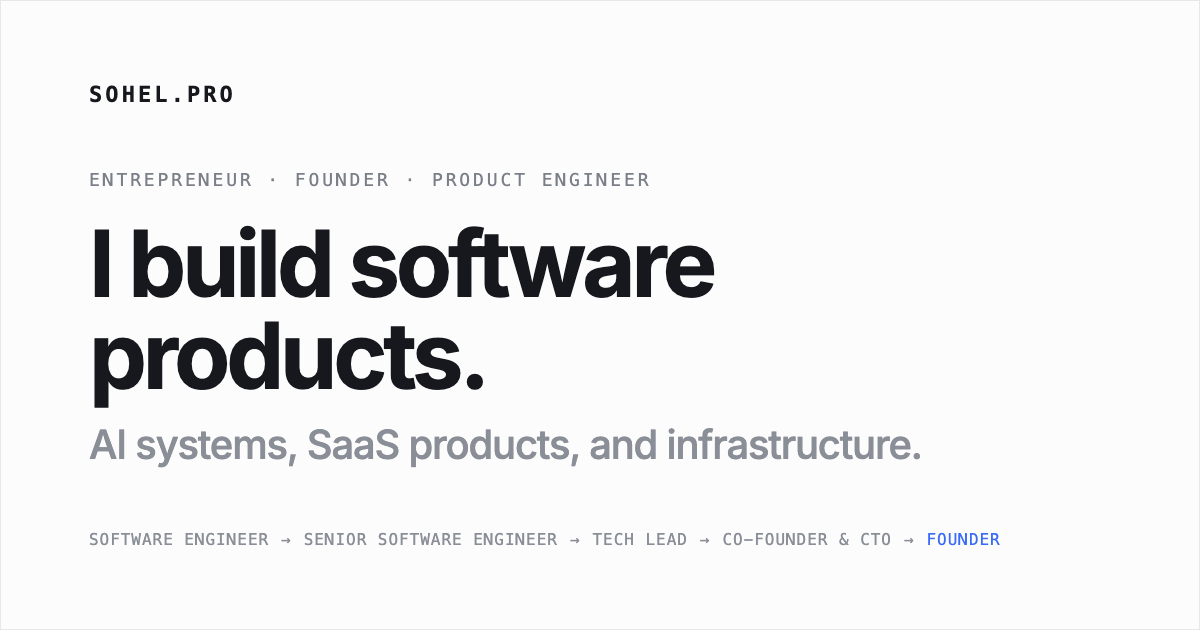
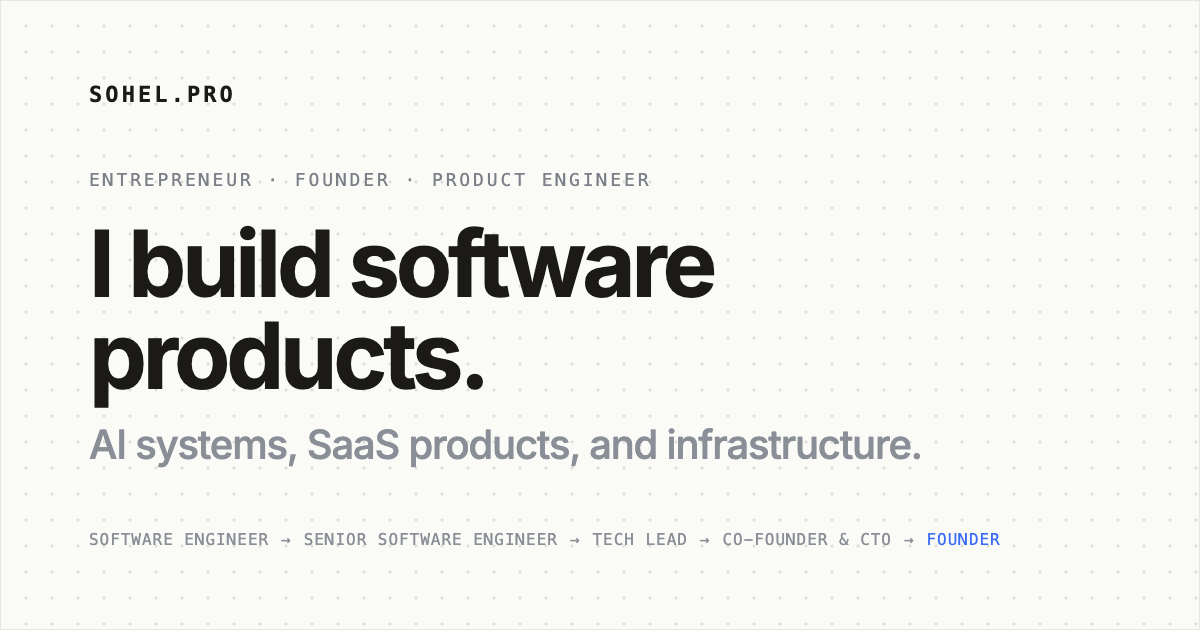
feat: warm paper palette and hero dot grid
- Shift neutrals to a warm paper tone (light) and warm charcoal (dark);
  cards stay white so they lift off the page; brand blue unchanged
- Add a faint dot grid behind the hero, masked to fade at the edges, with
  per-theme dot colour
- Regenerate the share image on warm paper with the same dot pattern

diff --git a/src/routes/index.tsx b/src/routes/index.tsx
@@ -104,104 +104,110 @@ function Home() {
 
 function Hero() {
   return (
-    <Container className="pt-20 pb-16 sm:pt-32 sm:pb-24">
-      <div className="flex items-center gap-3">
-        <img
-          src={site.avatarSmall}
-          alt=""
-          width={40}
-          height={40}
-          fetchPriority="high"
-          className="size-10 rounded-full border bg-muted object-cover"
-        />
-        <div className="flex min-w-0 flex-col gap-1">
-          <p className="text-sm leading-none font-medium">{site.name}</p>
-          <Eyebrow className="leading-[1.5]">{hero.eyebrow}</Eyebrow>
+    <div className="relative isolate">
+      <div
+        aria-hidden
+        className="dot-grid pointer-events-none absolute inset-0 -z-10"
+      />
+      <Container className="pt-20 pb-16 sm:pt-32 sm:pb-24">
+        <div className="flex items-center gap-3">
+          <img
+            src={site.avatarSmall}
+            alt=""
+            width={40}
+            height={40}
+            fetchPriority="high"
+            className="size-10 rounded-full border bg-muted object-cover"
+          />
+          <div className="flex min-w-0 flex-col gap-1">
+            <p className="text-sm leading-none font-medium">{site.name}</p>
+            <Eyebrow className="leading-[1.5]">{hero.eyebrow}</Eyebrow>
+          </div>
         </div>
-      </div>
-      <h1 className="mt-8 max-w-3xl text-[2.6rem] leading-[1.05] font-semibold tracking-[-0.045em] text-balance sm:text-6xl md:text-7xl">
-        {hero.headline}
-      </h1>
-      <p className="mt-4 max-w-3xl text-2xl leading-tight font-medium tracking-[-0.03em] text-balance text-subtle-foreground sm:text-3xl md:text-4xl">
-        {hero.secondary}
-      </p>
-      <p className="mt-8 max-w-xl text-[17px] leading-8 text-pretty text-muted-foreground">
-        {hero.description}
-      </p>
-      <p className="mt-4 text-[15px] text-muted-foreground">
-        Co-founder & CTO at{" "}
-        <ExternalLink
-          href="https://www.tenbyte.io/"
-          className="font-medium text-foreground"
-        >
-          Tenbyte
-        </ExternalLink>
-      </p>
+        <h1 className="mt-8 max-w-3xl text-[2.6rem] leading-[1.05] font-semibold tracking-[-0.045em] text-balance sm:text-6xl md:text-7xl">
+          {hero.headline}
+        </h1>
+        <p className="mt-4 max-w-3xl text-2xl leading-tight font-medium tracking-[-0.03em] text-balance text-subtle-foreground sm:text-3xl md:text-4xl">
+          {hero.secondary}
+        </p>
+        <p className="mt-8 max-w-xl text-[17px] leading-8 text-pretty text-muted-foreground">
+          {hero.description}
+        </p>
+        <p className="mt-4 text-[15px] text-muted-foreground">
+          Co-founder & CTO at{" "}
+          <ExternalLink
+            href="https://www.tenbyte.io/"
+            className="font-medium text-foreground"
+          >
+            Tenbyte
+          </ExternalLink>
+        </p>
 
-      <div className="mt-10 flex flex-wrap items-center gap-3">
-        <Link
-          to="/products"
-          className="inline-flex h-10 items-center gap-2 rounded-lg bg-foreground px-4 text-sm font-medium text-background transition-colors duration-200 hover:bg-foreground/85"
-        >
-          View products
-          <Icon icon={ArrowRight01Icon} size={16} />
-        </Link>
-        <Link
-          to="/experience"
-          className="inline-flex h-10 items-center rounded-lg border bg-card px-4 text-sm font-medium transition-colors duration-200 hover:border-border-strong hover:bg-muted"
-        >
-          My experience
-        </Link>
-        <div className="ml-1 flex items-center gap-1">
-          <a
-            href={site.social.github.url}
-            target="_blank"
-            rel="noopener noreferrer"
-            aria-label="GitHub (opens in a new tab)"
-            className="inline-flex size-10 items-center justify-center rounded-lg text-muted-foreground transition-colors duration-200 hover:bg-muted hover:text-foreground"
+        <div className="mt-10 flex flex-wrap items-center gap-3">
+          <Link
+            to="/products"
+            className="inline-flex h-10 items-center gap-2 rounded-lg bg-foreground px-4 text-sm font-medium text-background transition-colors duration-200 hover:bg-foreground/85"
           >
-            <Icon icon={Github01Icon} size={18} />
-          </a>
-          <a
-            href={site.social.x.url}
-            target="_blank"
-            rel="noopener noreferrer"
-            aria-label="X (opens in a new tab)"
-            className="inline-flex size-10 items-center justify-center rounded-lg text-muted-foreground transition-colors duration-200 hover:bg-muted hover:text-foreground"
+            View products
+            <Icon icon={ArrowRight01Icon} size={16} />
+          </Link>
+          <Link
+            to="/experience"
+            className="inline-flex h-10 items-center rounded-lg border bg-card px-4 text-sm font-medium transition-colors duration-200 hover:border-border-strong hover:bg-muted"
           >
-            <Icon icon={NewTwitterIcon} size={17} />
-          </a>
-          <a
-            href={`mailto:${site.email}`}
-            aria-label={`Email ${site.email}`}
-            className="inline-flex size-10 items-center justify-center rounded-lg text-muted-foreground transition-colors duration-200 hover:bg-muted hover:text-foreground"
-          >
-            <Icon icon={Mail01Icon} size={18} />
-          </a>
+            My experience
+          </Link>
+          <div className="ml-1 flex items-center gap-1">
+            <a
+              href={site.social.github.url}
+              target="_blank"
+              rel="noopener noreferrer"
+              aria-label="GitHub (opens in a new tab)"
+              className="inline-flex size-10 items-center justify-center rounded-lg text-muted-foreground transition-colors duration-200 hover:bg-muted hover:text-foreground"
+            >
+              <Icon icon={Github01Icon} size={18} />
+            </a>
+            <a
+              href={site.social.x.url}
+              target="_blank"
+              rel="noopener noreferrer"
+              aria-label="X (opens in a new tab)"
+              className="inline-flex size-10 items-center justify-center rounded-lg text-muted-foreground transition-colors duration-200 hover:bg-muted hover:text-foreground"
+            >
+              <Icon icon={NewTwitterIcon} size={17} />
+            </a>
+            <a
+              href={`mailto:${site.email}`}
+              aria-label={`Email ${site.email}`}
+              className="inline-flex size-10 items-center justify-center rounded-lg text-muted-foreground transition-colors duration-200 hover:bg-muted hover:text-foreground"
+            >
+              <Icon icon={Mail01Icon} size={18} />
+            </a>
+          </div>
         </div>
-      </div>
 
-      <ol
-        aria-label="Career progression"
-        className="mt-16 flex flex-wrap items-center gap-x-2 gap-y-2 font-mono text-[11px] tracking-[0.08em] text-subtle-foreground uppercase sm:mt-20"
-      >
-        {careerTrack.map((step, i) => {
-          const last = i === careerTrack.length - 1
-          return (
-            <li key={step} className="flex items-center gap-2">
-              <span className={cn(last && "text-brand")}>{step}</span>
-              {!last && (
-                <Icon
-                  icon={ArrowRight01Icon}
-                  size={12}
-                  className="text-border-strong"
-                />
-              )}
-            </li>
-          )
-        })}
-      </ol>
-    </Container>
+        <ol
+          aria-label="Career progression"
+          className="mt-16 flex flex-wrap items-center gap-x-2 gap-y-2 font-mono text-[11px] tracking-[0.08em] text-subtle-foreground uppercase sm:mt-20"
+        >
+          {careerTrack.map((step, i) => {
+            const last = i === careerTrack.length - 1
+            return (
+              <li key={step} className="flex items-center gap-2">
+                <span className={cn(last && "text-brand")}>{step}</span>
+                {!last && (
+                  <Icon
+                    icon={ArrowRight01Icon}
+                    size={12}
+                    className="text-border-strong"
+                  />
+                )}
+              </li>
+            )
+          })}
+        </ol>
+      </Container>
+    </div>
   )
 }
 

diff --git a/src/styles.css b/src/styles.css
@@ -46,54 +46,56 @@
 
 :root {
   color-scheme: light;
-  /* Surfaces: page < card. Neutrals carry a faint cool tint toward the brand
-     blue so the greys feel related to the accent. */
-  --background: oklch(0.99 0.002 260);
-  --foreground: oklch(0.19 0.008 262);
+  /* Warm paper: neutrals lean slightly yellow so the page reads like paper
+     rather than a screen. Cards stay pure white to lift off it. */
+  --background: oklch(0.985 0.004 95);
+  --foreground: oklch(0.2 0.005 90);
   --card: oklch(1 0 0);
-  --card-foreground: oklch(0.19 0.008 262);
+  --card-foreground: oklch(0.2 0.005 90);
   --popover: oklch(1 0 0);
-  --popover-foreground: oklch(0.19 0.008 262);
-  --primary: oklch(0.19 0.008 262);
-  --primary-foreground: oklch(0.99 0 0);
-  --secondary: oklch(0.965 0.004 262);
-  --secondary-foreground: oklch(0.19 0.008 262);
-  --muted: oklch(0.965 0.004 262);
-  --muted-foreground: oklch(0.46 0.012 262);
-  --subtle-foreground: oklch(0.51 0.012 262);
-  --accent: oklch(0.965 0.004 262);
-  --accent-foreground: oklch(0.19 0.008 262);
+  --popover-foreground: oklch(0.2 0.005 90);
+  --primary: oklch(0.2 0.005 90);
+  --primary-foreground: oklch(0.985 0.004 95);
+  --secondary: oklch(0.96 0.005 95);
+  --secondary-foreground: oklch(0.2 0.005 90);
+  --muted: oklch(0.96 0.005 95);
+  --muted-foreground: oklch(0.46 0.008 90);
+  --subtle-foreground: oklch(0.51 0.008 90);
+  --accent: oklch(0.96 0.005 95);
+  --accent-foreground: oklch(0.2 0.005 90);
   --destructive: oklch(0.577 0.245 27.325);
-  --border: oklch(0.922 0.005 262);
-  --border-strong: oklch(0.85 0.008 262);
-  --input: oklch(0.922 0.005 262);
+  --border: oklch(0.915 0.006 95);
+  --border-strong: oklch(0.845 0.008 95);
+  --input: oklch(0.915 0.006 95);
   --ring: oklch(0.55 0.2 262);
   /* Accent: one blue, used sparingly — links on hover, focus, status, "now". */
   --brand: oklch(0.55 0.2 262);
   --brand-foreground: oklch(0.99 0 0);
-  --brand-soft: oklch(0.96 0.025 262);
+  --brand-soft: oklch(0.955 0.025 262);
   --brand-soft-foreground: oklch(0.45 0.18 262);
-  --shadow-color: oklch(0.19 0.02 262 / 0.1);
+  --shadow-color: oklch(0.2 0.01 90 / 0.1);
+  --dot-color: oklch(0.2 0.005 90 / 0.16);
   --radius: 0.625rem;
 }
 
 .dark {
   color-scheme: dark;
-  --background: oklch(0.155 0.008 262);
-  --foreground: oklch(0.95 0.004 262);
-  --card: oklch(0.19 0.009 262);
-  --card-foreground: oklch(0.95 0.004 262);
-  --popover: oklch(0.19 0.009 262);
-  --popover-foreground: oklch(0.95 0.004 262);
-  --primary: oklch(0.95 0.004 262);
-  --primary-foreground: oklch(0.17 0.008 262);
-  --secondary: oklch(0.22 0.01 262);
-  --secondary-foreground: oklch(0.95 0.004 262);
-  --muted: oklch(0.22 0.01 262);
-  --muted-foreground: oklch(0.74 0.01 262);
-  --subtle-foreground: oklch(0.64 0.012 262);
-  --accent: oklch(0.22 0.01 262);
-  --accent-foreground: oklch(0.95 0.004 262);
+  /* Warm charcoal to match the paper tone. */
+  --background: oklch(0.175 0.003 95);
+  --foreground: oklch(0.95 0.004 95);
+  --card: oklch(0.207 0.004 95);
+  --card-foreground: oklch(0.95 0.004 95);
+  --popover: oklch(0.207 0.004 95);
+  --popover-foreground: oklch(0.95 0.004 95);
+  --primary: oklch(0.95 0.004 95);
+  --primary-foreground: oklch(0.19 0.004 95);
+  --secondary: oklch(0.24 0.005 95);
+  --secondary-foreground: oklch(0.95 0.004 95);
+  --muted: oklch(0.24 0.005 95);
+  --muted-foreground: oklch(0.75 0.006 95);
+  --subtle-foreground: oklch(0.65 0.008 95);
+  --accent: oklch(0.24 0.005 95);
+  --accent-foreground: oklch(0.95 0.004 95);
   --destructive: oklch(0.704 0.191 22.216);
   --border: oklch(1 0 0 / 8%);
   --border-strong: oklch(1 0 0 / 15%);
@@ -101,9 +103,10 @@
   --ring: oklch(0.7 0.15 262);
   --brand: oklch(0.7 0.15 262);
   --brand-foreground: oklch(0.16 0.02 262);
-  --brand-soft: oklch(0.26 0.06 262);
-  --brand-soft-foreground: oklch(0.82 0.09 262);
+  --brand-soft: oklch(0.27 0.06 262);
+  --brand-soft-foreground: oklch(0.83 0.09 262);
   --shadow-color: oklch(0 0 0 / 0.5);
+  --dot-color: oklch(1 0 0 / 0.11);
 }
 
 @layer base {
@@ -127,6 +130,19 @@
   :focus-visible {
     @apply rounded-sm outline-2 outline-offset-2 outline-brand;
   }
+}
+
+/* Hero backdrop: a faint grid of dots, like nodes in a network, fading out
+   toward the edges so it never competes with the text. */
+.dot-grid {
+  background-image: radial-gradient(var(--dot-color) 1px, transparent 1.4px);
+  background-size: 22px 22px;
+  background-position: -11px -11px;
+  mask-image: radial-gradient(
+    ellipse 75% 70% at 35% 40%,
+    #000 25%,
+    transparent 80%
+  );
 }
 
 @media (prefers-reduced-motion: reduce) {
